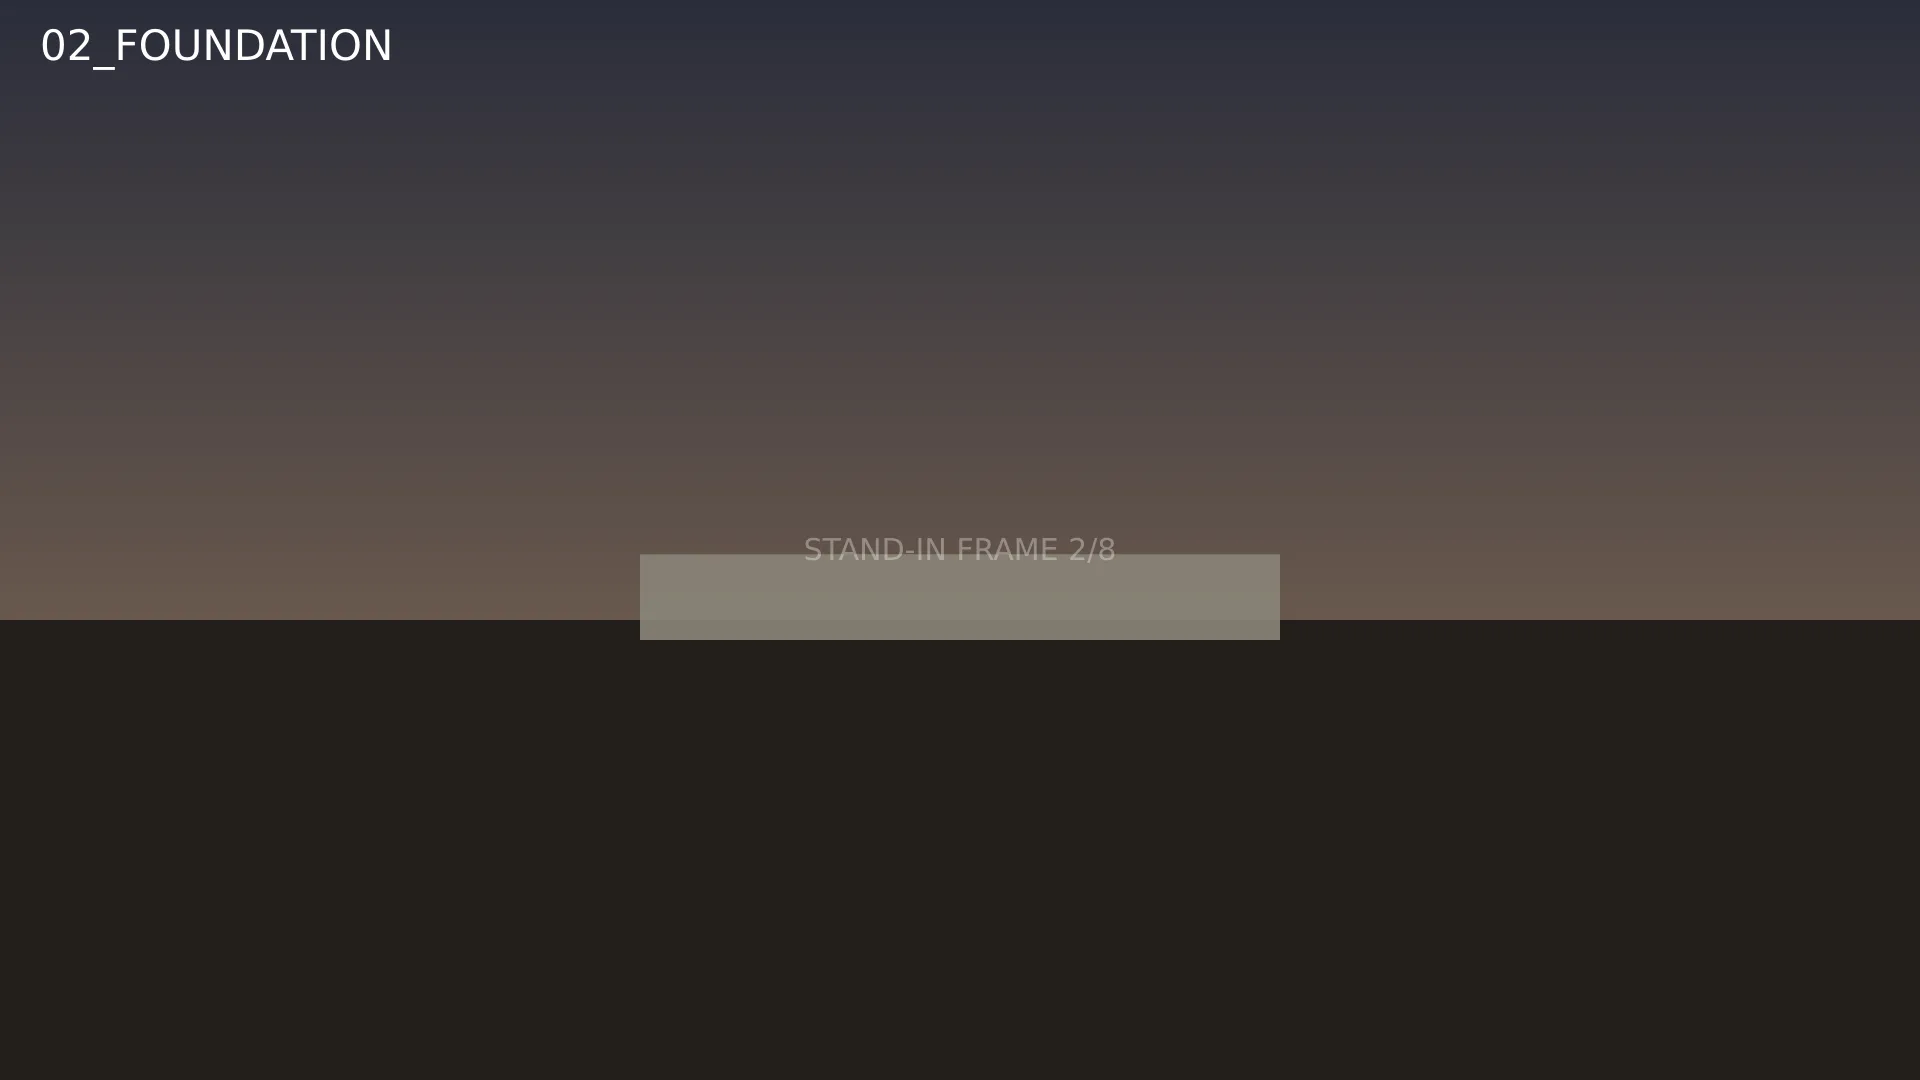
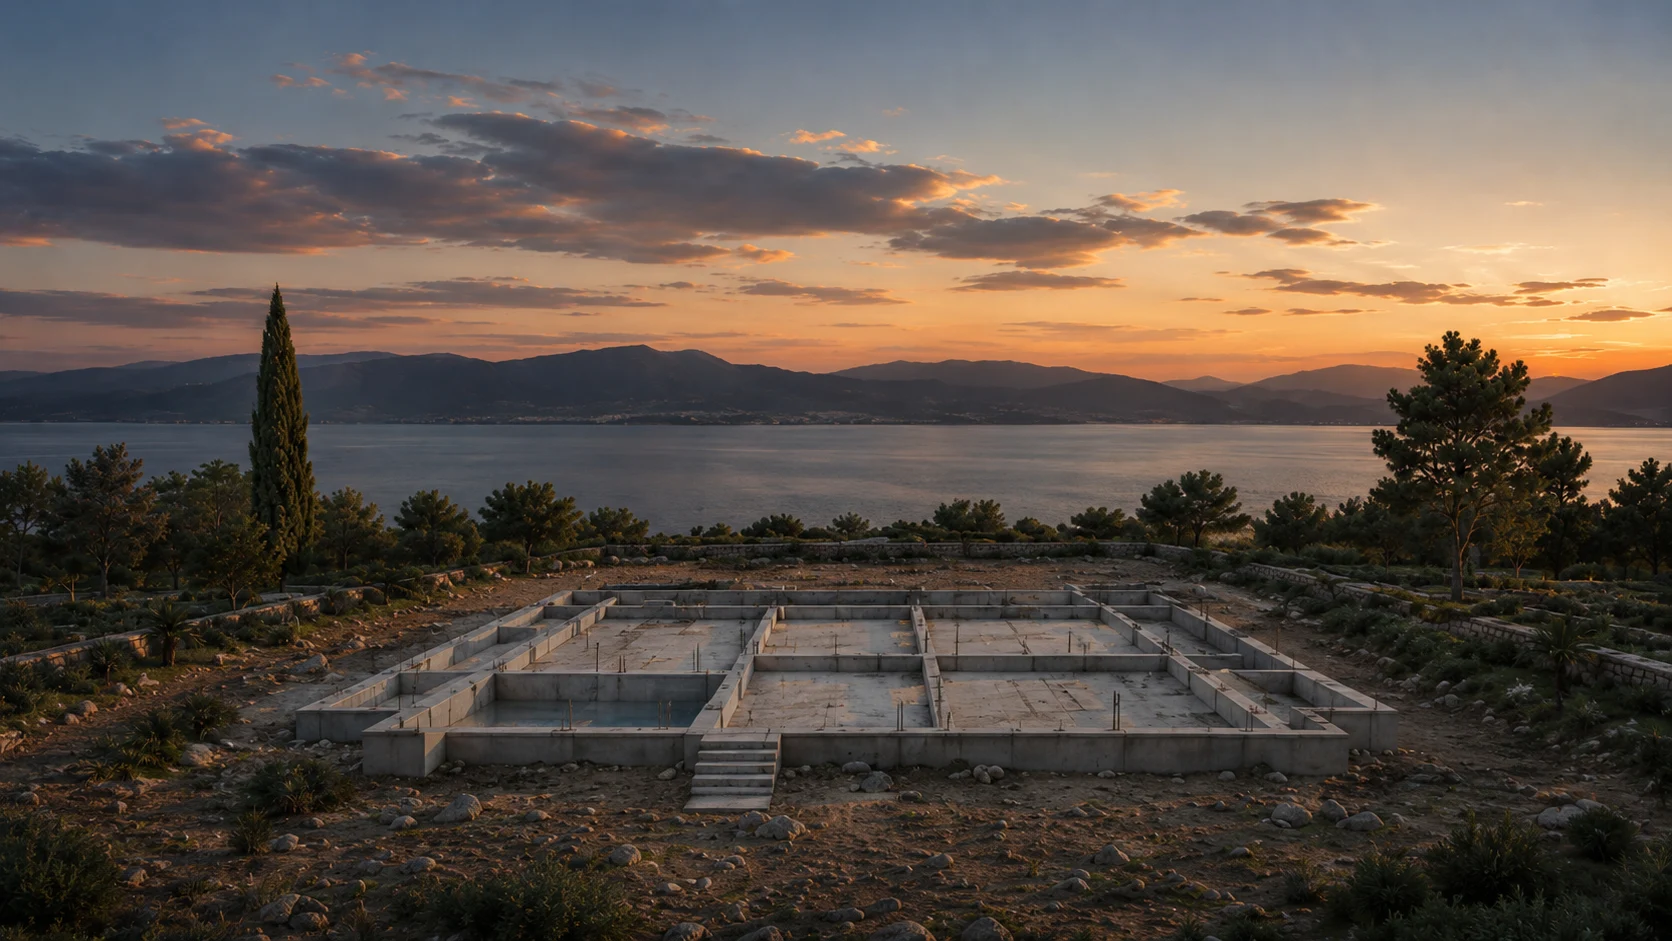
MONOLITH: real 8-frame villa sequence installed
Converted the uploaded renders to public/house-sequence/*.webp in stage
order, relaxed the top crop (frames carry no labels), literal frame
paths so the single-file build inlines them, closing title in the sky.

Claude-Session: https://claude.ai/code/session_01U388DDAk8LPxpVe6uXj9Rt

diff --git a/src/data/sequence.js b/src/data/sequence.js
@@ -1,15 +1,16 @@
 /**
  * The 8 aligned construction frames of the MONOLITH residence.
  * One villa, one camera, eight moments — scroll scrubs through them.
- * Files live in /public/house-sequence/ (1920×1080 WebP, center-aligned).
+ * Files live in /public/house-sequence/ (16:9 WebP, center-aligned).
+ * Paths are literal strings so the single-file build can inline them.
  */
 export const FRAMES = [
-  { file: '01_empty_land', phase: 'LAND' },
-  { file: '02_foundation', phase: 'FOUNDATION' },
-  { file: '03_ground_structure', phase: 'STRUCTURE' },
-  { file: '04_full_structure', phase: 'FRAME' },
-  { file: '05_walls_and_roof', phase: 'ENVELOPE' },
-  { file: '06_windows_and_materials', phase: 'GLAZING' },
-  { file: '07_pool_and_landscaping', phase: 'LANDSCAPE' },
-  { file: '08_completed_villa', phase: 'RESIDENCE' },
-].map((f, i) => ({ ...f, index: i, src: `/house-sequence/${f.file}.webp` }))
+  { file: '01_empty_land', phase: 'LAND', src: '/house-sequence/01_empty_land.webp' },
+  { file: '02_foundation', phase: 'FOUNDATION', src: '/house-sequence/02_foundation.webp' },
+  { file: '03_ground_structure', phase: 'STRUCTURE', src: '/house-sequence/03_ground_structure.webp' },
+  { file: '04_full_structure', phase: 'FRAME', src: '/house-sequence/04_full_structure.webp' },
+  { file: '05_walls_and_roof', phase: 'ENVELOPE', src: '/house-sequence/05_walls_and_roof.webp' },
+  { file: '06_windows_and_materials', phase: 'GLAZING', src: '/house-sequence/06_windows_and_materials.webp' },
+  { file: '07_pool_and_landscaping', phase: 'LANDSCAPE', src: '/house-sequence/07_pool_and_landscaping.webp' },
+  { file: '08_completed_villa', phase: 'RESIDENCE', src: '/house-sequence/08_completed_villa.webp' },
+].map((f, i) => ({ ...f, index: i }))

diff --git a/src/components/monolith/SequenceScene.css b/src/components/monolith/SequenceScene.css
@@ -26,11 +26,11 @@
 .seq-img {
   position: absolute;
   left: 0;
-  top: -9%;
+  top: -3%;
   width: 100%;
-  height: 118%;
+  height: 106%;
   object-fit: cover;
-  object-position: center 55%;
+  object-position: center 52%;
   will-change: transform;
 }
 
